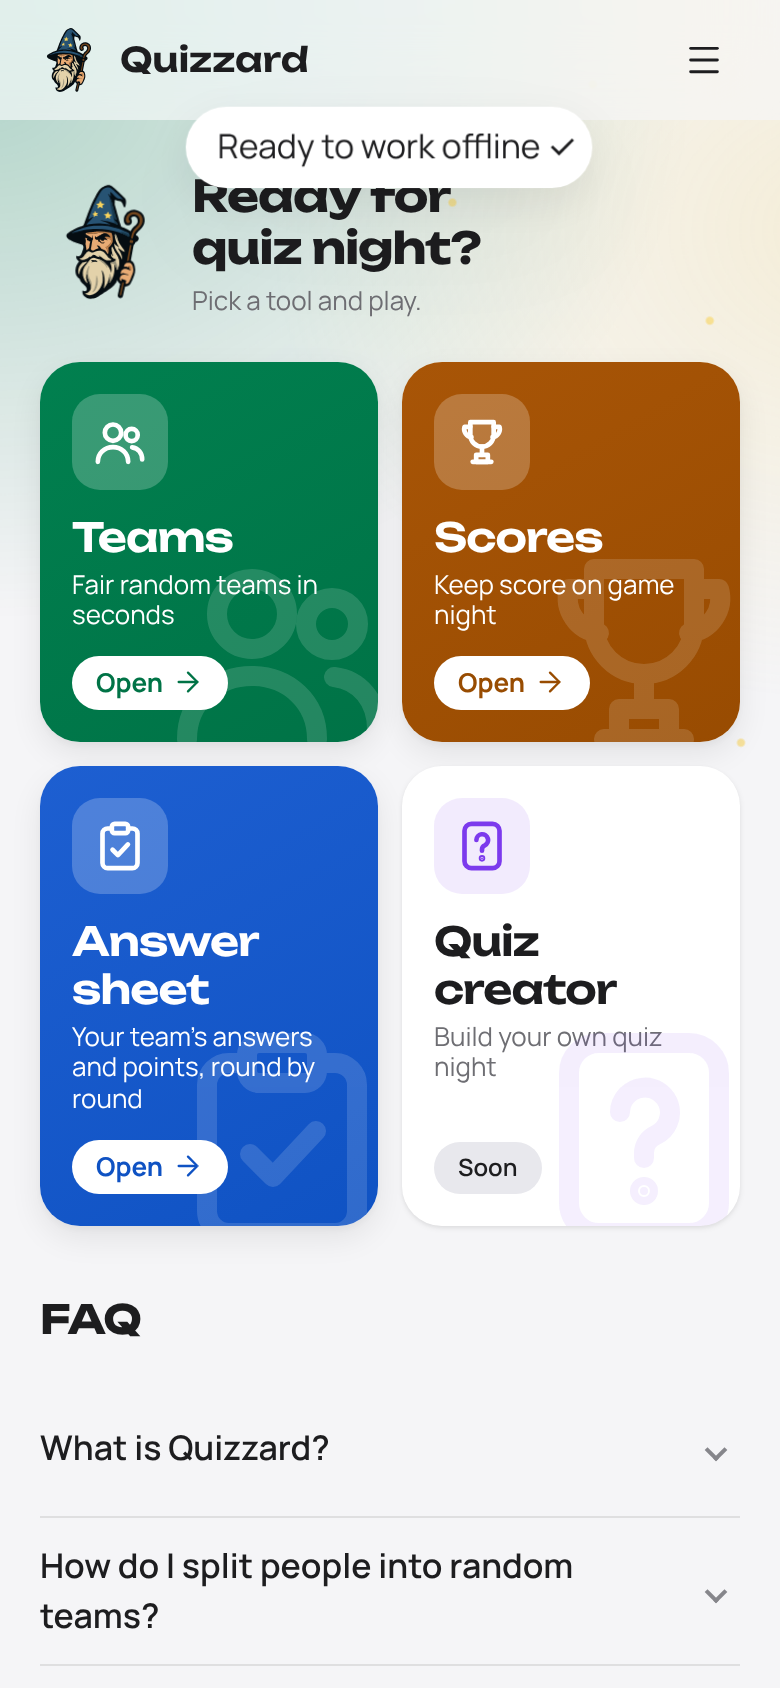
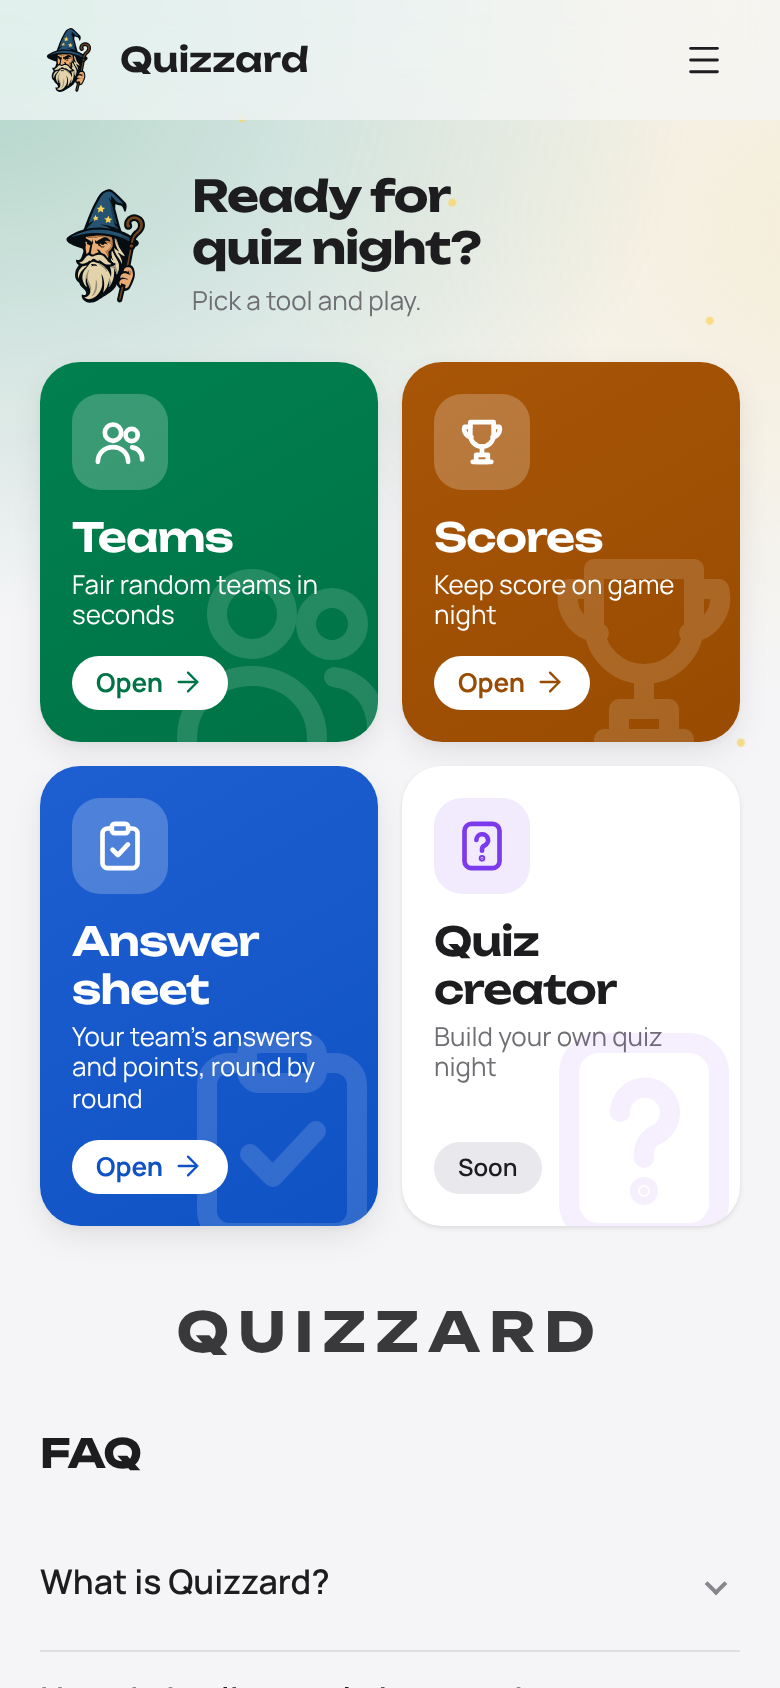
feat: 0.15.0 — glass look in menus, dialogs and tools, wordmark, hand-off splash, symmetric desktop
- Wordmark breath is step-based (3 % of a core in software rendering)
- Docs and install images regenerated

Claude-Session: https://claude.ai/code/session_011u5MwhQ4SCvg7CGyrWTMMa

diff --git a/app/src/styles/components/wordmark.css b/app/src/styles/components/wordmark.css
@@ -68,12 +68,14 @@
   .wordmark--footer {
     opacity: var(--wordmark-rest);
 
-    /* A slow breath while Home is open. Small and opacity-only on purpose: measured at about no CPU (the large
-       drifting layers of 0.14.0 were the costly ones). */
+    /* A slow breath while Home is open. Small and opacity-only on purpose (the large drifting layers of 0.14.0 kept a
+       whole core busy). */
     @media (prefers-reduced-motion: no-preference) {
       /* On Home only: with a tool open the footer's wordmark rests. */
       :root:not([data-tool]) & {
-        animation: wordmark-breathe 3.6s var(--ease-standard) 1.6s infinite alternate;
+        /* steps(): about seven small changes a second instead of sixty frames — the eye sees the same slow breath,
+           the processor half the work (measured 2026-11-23, software rendering: 6 % of a core → 3 %). */
+        animation: wordmark-breathe 3.6s steps(24) 1.6s infinite alternate;
       }
     }
   }

diff --git a/docs/DECISIONS.md b/docs/DECISIONS.md
@@ -78,4 +78,4 @@ Format: date · decision · reason.
 - 2026-11-23 · Home keeps the order of its tiles for the whole visit; "Last used" moves to the top only at the next page load · Moni: going back from a tool closed into the top tile, not the one he opened (the list was re-ordered under the morph).
 - 2026-11-23 · Answer sheet: "Delete round" confirms when the round is not blank, then offers Undo (0.14.1) · Moni expected a confirmation; a short Undo toast is too little for a whole round.
 - 2026-11-23 · No endless animation on Home (0.14.1): the glow and the stars are still, the wizard bobs four times and rests · measured: the drifting full-screen glow + twinkling stars used one whole CPU core for as long as Home was open (8 s CPU in 8 s vs 1 s without) — battery on phones, and on CI's 2-core runners WebKit was starved until mini-apps did not mount within 5 s (random red runs). Also: morphScreens changes the screen even if the view-transition callback never runs.
-- 2026-11-23 · 0.15.0 look (Moni's brief): (1) glass tokens `--glass-surface|-strong|-blur|-edge` in design/tokens.css, used by the menu, dialogs, Settings cards and the tools' panels; (2) the wordmark "Quizzard" (letters as spans, aria-hidden) under the tiles on phones / installed and in the footer on desktop; it replays its entrance on every return to Home and breathes (opacity only, one small element — the only endless animation allowed, measured ~0 CPU); (3) the splash ends as a hand-off (ui/splash.ts, WAAPI): wizard → header logo, wordmark → the page's wordmark, cover clears; CSS fade stays as the no-JS / reduced-motion path; (4) desktop Home is a wrapping flex row so the tiles of a row share its width (a spanning featured card stopped auto-fit from collapsing empty tracks) · symmetry and one coherent, playful identity.
+- 2026-11-23 · 0.15.0 look (Moni's brief): (1) glass tokens `--glass-surface|-strong|-blur|-edge` in design/tokens.css, used by the menu, dialogs, Settings cards and the tools' panels; (2) the wordmark "Quizzard" (letters as spans, aria-hidden) under the tiles on phones / installed and in the footer on desktop; it replays its entrance on every return to Home and breathes (opacity only, one small element — the only endless animation allowed; steps(24), measured 3 % of one core in software rendering against 100 % for the 0.14.0 layers); (3) the splash ends as a hand-off (ui/splash.ts, WAAPI): wizard → header logo, wordmark → the page's wordmark, cover clears; CSS fade stays as the no-JS / reduced-motion path; (4) desktop Home is a wrapping flex row so the tiles of a row share its width (a spanning featured card stopped auto-fit from collapsing empty tracks) · symmetry and one coherent, playful identity.
